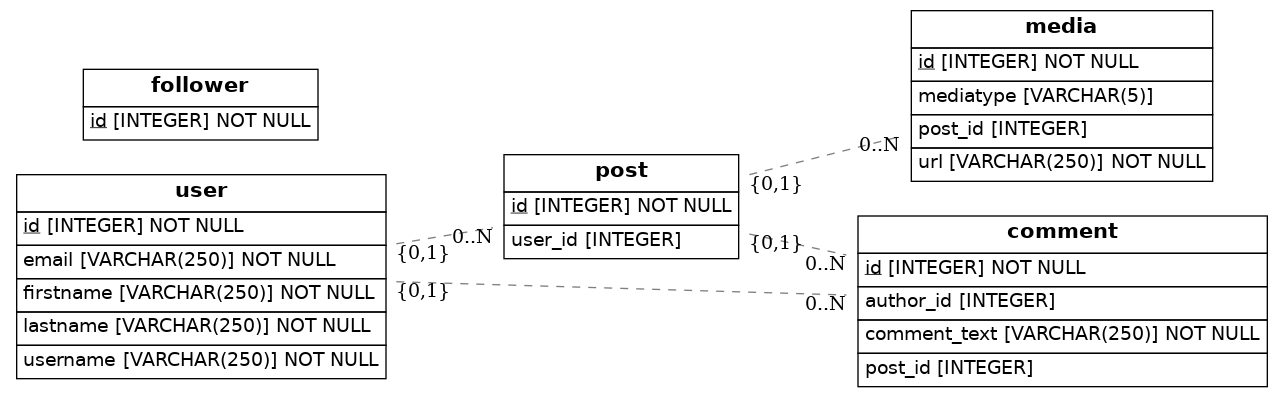
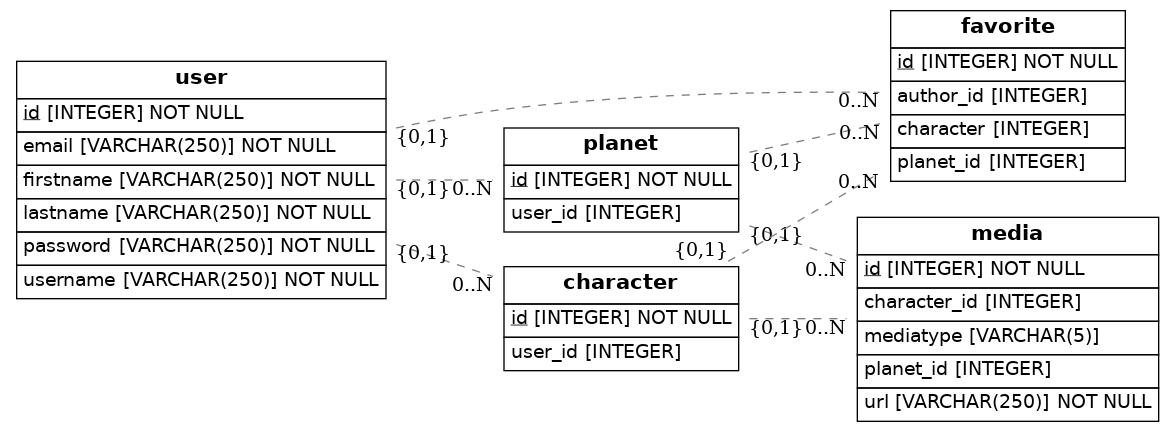
commit

Changed region(s): [[0.0, 0.0, 1.0, 0.9975], [0.5821, 0.2116, 0.6128, 0.2418]]

diff --git a/src/models.py b/src/models.py
@@ -19,37 +19,39 @@ class User(Base):
     firstname = Column(String(250), nullable=False)
     lastname = Column(String(250), nullable=False)
     email = Column(String(250), nullable=False)
-    post = relationship("post", backref="user")
-    comment = relationship("comment", backref="user")
-    follower = relationship("follower", backref="user")
-    follower = relationship("follower", backref="user")
+    password = Column(String(250), nullable=False)
+    planet = relationship("planet", backref="user")
+    character = relationship("character", backref="user")
+    favorite = relationship("favorite", backref="user")
 
-class Follower(Base):
-    __tablename__ = 'follower'
-    id = Column(Integer, primary_key=True)
-    user_from_id = (Integer, ForeignKey("user.id"))
-    user_to_id = (Integer, ForeignKey("user.id"))
-
-class Post(Base):
-    __tablename__ = 'post'
+class Planet(Base):
+    __tablename__ = 'planet'
     id = Column(Integer, primary_key=True)
     user_id = Column(Integer, ForeignKey("user.id"))
-    media = relationship("media", backref="post")
-    comment = relationship("comment", backref="post") 
+    favorite = relationship("favorite", backref="planet")
+    media = relationship("media", backref="planet")
+
+class Character(Base):
+    __tablename__ = 'character'
+    id = Column(Integer, primary_key=True)
+    user_id = Column(Integer, ForeignKey("user.id"))
+    favorite = relationship("favorite", backref="character")
+    media = relationship("media", backref="character")
 
 class Media(Base):
     __tablename__ = 'media'
     id = Column(Integer, primary_key=True)
     mediatype = Column(sqlalchemy_enum(MediaEnum))
     url = Column(String(250), nullable=False)
-    post_id = Column(Integer, ForeignKey("post.id"))
-
-class Comment(Base):
-    __tablename__ = 'comment'
+    planet_id = Column(Integer, ForeignKey("planet.id"))
+    character_id = Column(Integer, ForeignKey("character.id"))
+    
+class Favorite(Base):
+    __tablename__ = 'favorite'
     id = Column(Integer, primary_key=True)
-    comment_text = Column(String(250), nullable=False)
     author_id = Column(Integer, ForeignKey("user.id"))
-    post_id = Column(Integer, ForeignKey("post.id"))
+    planet_id = Column(Integer, ForeignKey("planet.id"))
+    character = Column(Integer, ForeignKey("character.id"))
 
 
     def to_dict(self):
